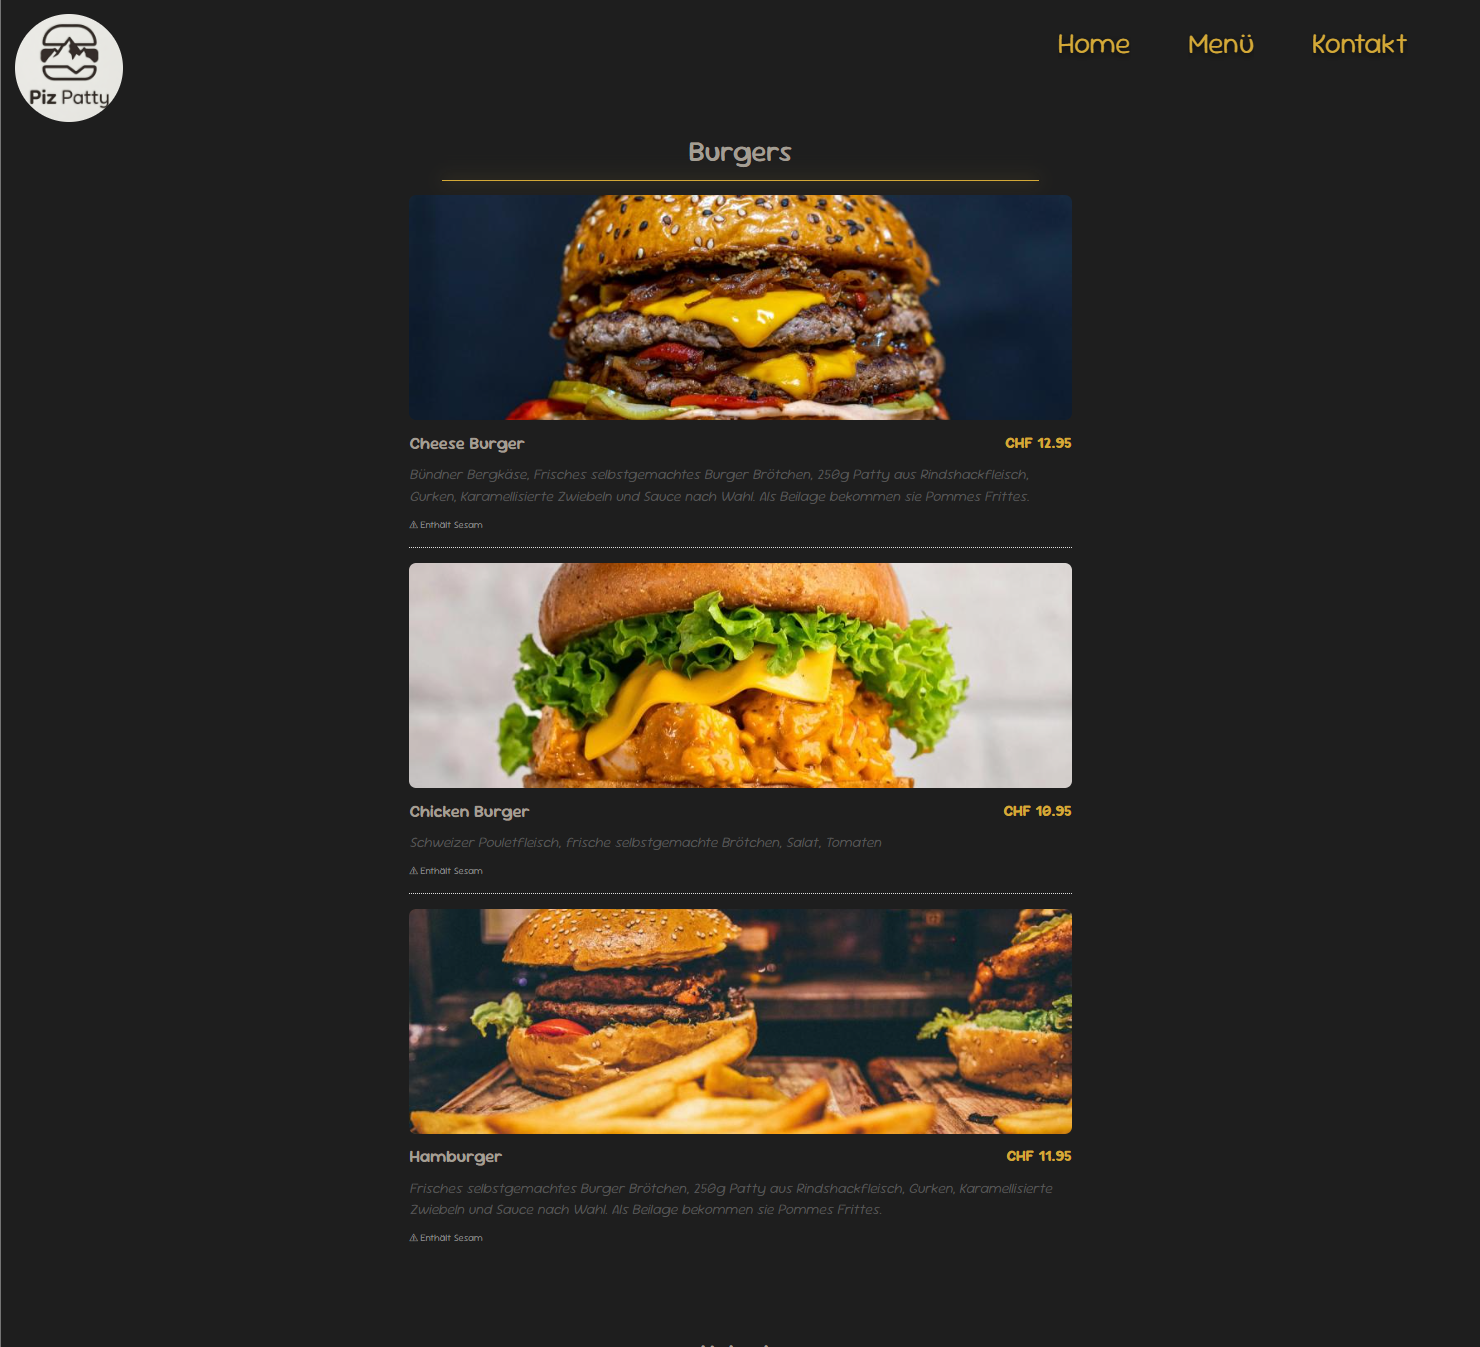
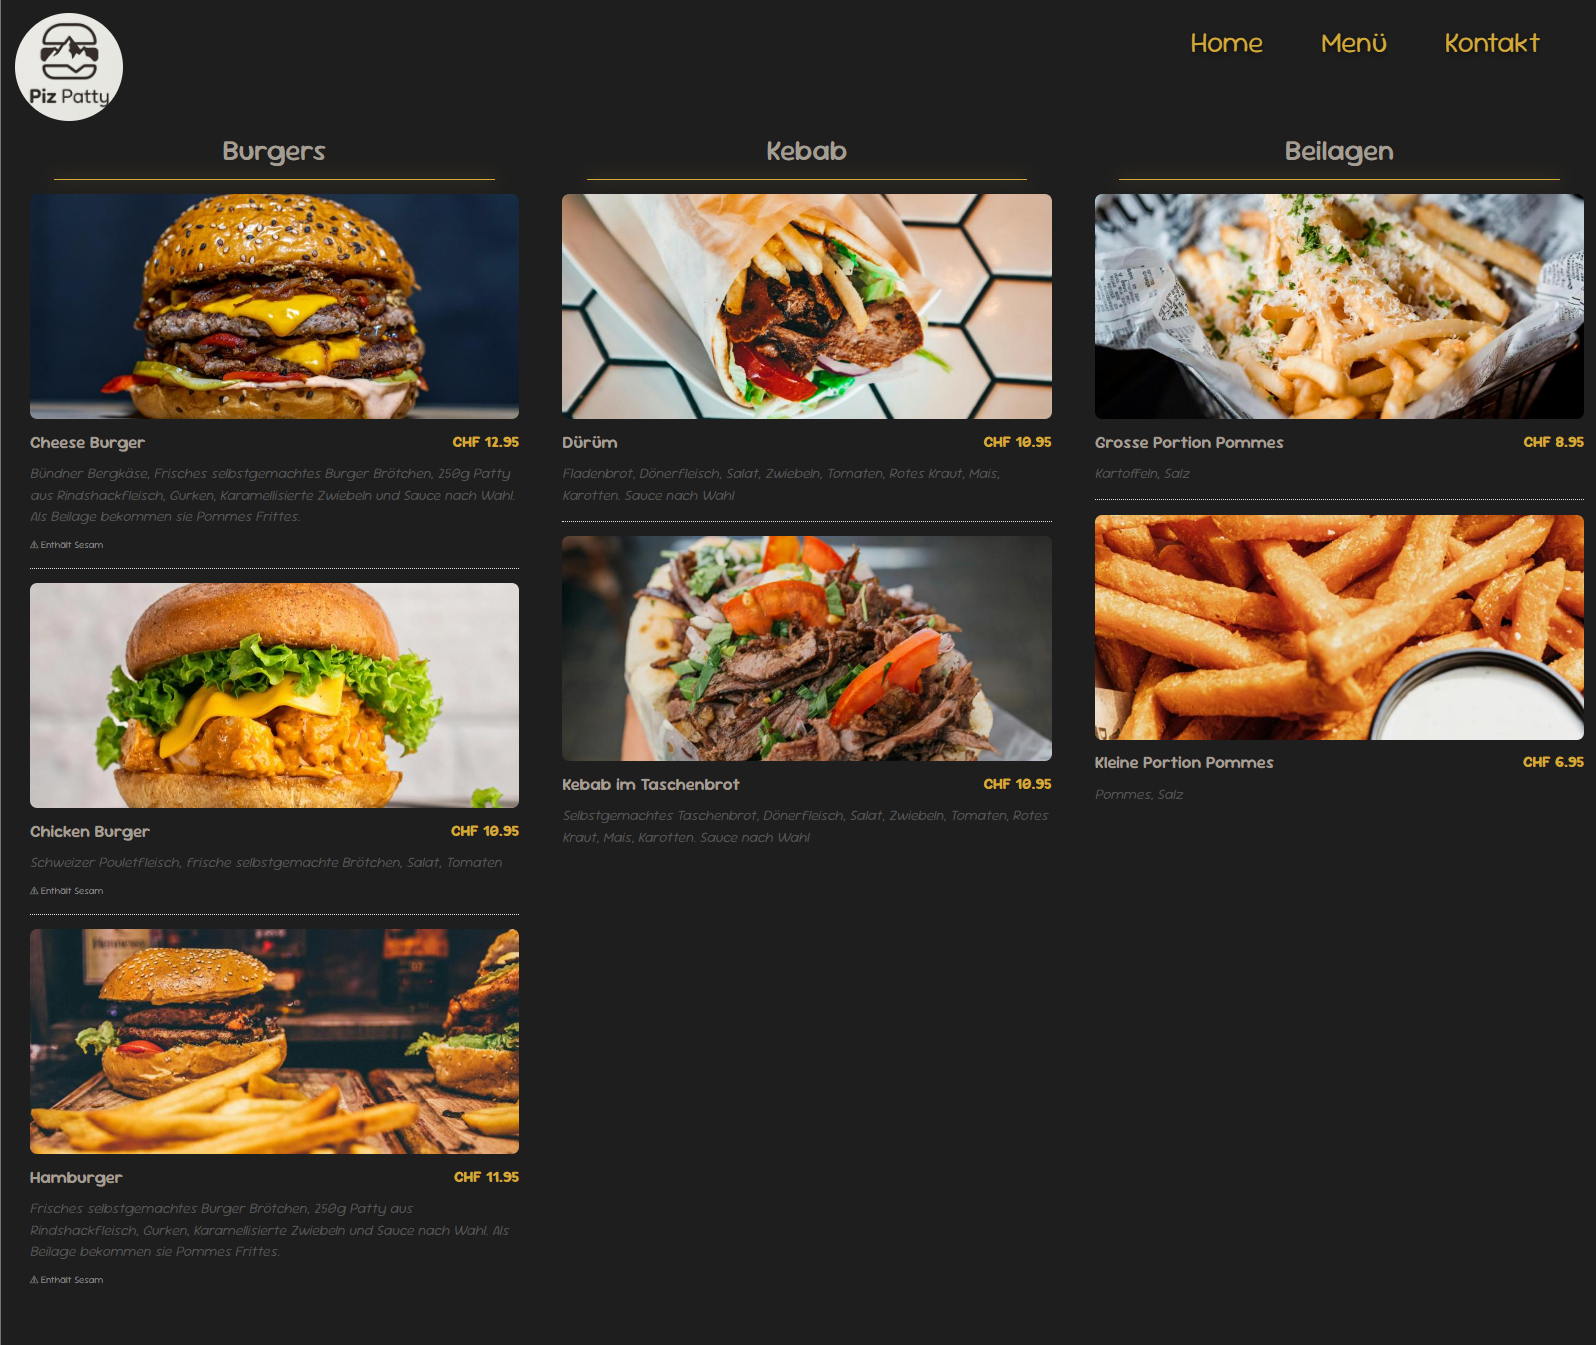
changed the Project description to accordion and fixed the Layout of the whole Website

diff --git a/src/data/projects.js b/src/data/projects.js
@@ -3,6 +3,8 @@ import pizMobile from "../assets/piz-patty/piz-mobile-1.png";
 import pizFeatures from "../assets/piz-patty/piz-desktop-2.png";
 import pizMenu from "../assets/piz-patty/piz-desktop-menu.png";
 
+import PizPattymockup from "../assets/piz-patty-mockup.webp"
+
 export const projects = [
   {
     slug: "piz-patty",
@@ -12,6 +14,7 @@ export const projects = [
       "Eine Restaurant-Website mit Speisekarte, Reservierungsmöglichkeit und Google Maps Einbindung. Die Inhalte können vom Betreiber selbst gepflegt werden, ohne technische Vorkenntnisse.",
     tags: ["Astro", "Sanity CMS", "Responsive", "SEO"],
     liveUrl: "https://piz-patty.vercel.app",
+    mockup: PizPattymockup, 
 
     desktop: {
       images: [
@@ -19,12 +22,25 @@ export const projects = [
           src: pizDesktop,
           alt: "Startseite Desktop",
           description: [
-            "Grosses Hero-Bild mit zwei CTA-Buttons.",
-            "Die Buttons lenken Besucher direkt zum Menü und zum Kontaktformular.",
-            "Darunter befinden sich die Öffnungszeiten.",
+            {
+              title: "Navigationsleiste",
+              text: "Die Navigationsleiste ist von der ganzen Website aus erreichbar und sorgt für eine einfache Navigation zu allen Sektionen der Website.",
+            },
+            {
+              title: "Hero Bild",
+              text: "Grosses Hero-Bild mit zwei CTA-Buttons.",
+            },
+            {
+              title: "CTA Buttons",
+              text: 'CTA steht für "Call to action", also Aufruf zu einer Aktion. Die Buttons lenken Besucher direkt zum Menü und zum Kontaktformular.',
+            },
+            {
+              title: "Öffunungszeiten",
+              text: "Unter dem Hero befinden sich die Öffnungszeiten.",
+            },
           ],
           highlights: [
-            { x: 76, y: -5, label: "Navigationsleiste" },
+            { x: 71, y: -5, label: "Navigationsleiste" },
             { x: 45, y: 41.5, label: "CTA Buttons" },
             { x: 50, y: 10, label: "Hero Bild" },
             { x: 10, y: 53, label: "Öffnungszeiten" },
@@ -34,8 +50,14 @@ export const projects = [
           src: pizFeatures,
           alt: "Features Desktop",
           description: [
-            "Unterhalb der Öffnungszeiten finden Ihre Kunden die Karte vom Restaurant. Wenn man da drauf klickt, kommt man direkt zu Google Maps und kann sogar eine Navigation starten.",
-            "Dank den Just Eat und Uber Eats Buttons, welche mit ihrer Restaurantseite verlinkt werden, können Kunden mit wenigen klicks eine Bestellung aufgeben.",
+            {
+              title: "Google Maps",
+              text: "Unterhalb der Öffnungszeiten finden Ihre Kunden die Karte vom Restaurant. Wenn man da drauf klickt, kommt man direkt zu Google Maps und kann sogar eine Navigation starten.",
+            },
+            {
+              title: "Just Eat/ Uber Eats",
+              text: "Dank den Just Eat und Uber Eats Buttons, welche mit ihrer Restaurantseite verlinkt werden, können Kunden in wenigen klicks eine Bestellung aufgeben.",
+            },
           ],
           highlights: [
             { x: 70, y: 28, label: "Google Maps" },
@@ -46,12 +68,19 @@ export const projects = [
           src: pizMenu,
           alt: "Speisekarte Desktop",
           description: [
-            "Grosses Hero-Bild mit zwei CTA-Buttons.",
-            "Die Buttons lenken Besucher direkt zum Menü und zum Kontaktformular.",
+            {
+              title: "Menüseite",
+              text: "Menüseite mit allen relevanten Informationen zu Ihren leckeren Speisen.",
+            },
+            {
+              title: "CTA Buttons",
+              text: "Die Buttons lenken Besucher direkt zum Menü und zum Kontaktformular.",
+            },
           ],
           highlights: [
-            { x: 30, y: 85, label: "CTA Buttons" },
-            { x: 15, y: 50, label: "Hero Bild" },
+            { x: 28, y: 25, label: "Preis" },
+            { x: 3, y: 59, label: "Allergie Infos" },
+            { x: 9, y: 82, label: "Zutaten" },
           ],
         },
       ],
@@ -63,10 +92,27 @@ export const projects = [
           src: pizMobile,
           alt: "Startseite Mobile",
           description: [
-            "Die Startseite ist so aufgebaut, dass Ihre Kunden alle wichtigen Informationen möglichst schnell finden.",
-            "In der Mobile Ansicht verschwindet die Navigationsleiste in einem sogenannten Hamburger Menü.",
-            "Die Buttons im Hero lenken Besucher direkt zum Menü und zum Kontaktformular.",
-            "Auf der Startseite kann man auch direkt die Öffnungszeiten einsehen.",
+            {
+              title: "Startseite",
+              text: "Die Startseite ist so aufgebaut, dass Ihre Kunden alle wichtigen Informationen möglichst schnell finden.",
+            },
+            {
+              title: "Hamburger Menü",
+              text: "In der Mobile Ansicht verschwindet die Navigationsleiste in einem sogenannten Hamburger Menü.",
+            },
+            {
+              title: "CTA Buttons",
+              text: "Die Buttons im Hero lenken Besucher direkt zum Menü und zum Kontaktformular.",
+            },
+            {
+              title: "Öffnungszeiten",
+              text: "Auf der Startseite kann man auch direkt die Öffnungszeiten einsehen.",
+            },
+          ],
+          highlights: [
+            { x: 59, y: -1, label: "Hamburger Menü", right: true },
+            { x: 35, y: 45, label: "CTA Buttons" },
+            { x: 35, y: 61, label: "Öffnungszeiten" },
           ],
         },
       ],

diff --git a/src/components/project-details/ProjectDetails.jsx b/src/components/project-details/ProjectDetails.jsx
@@ -1,8 +1,9 @@
 import { useState } from "react";
 import Switch from "./MobileSwitch";
+import Accordion from "./Accordion.jsx"
 
 export default function ProjectDetails({ project, desktop, mobile }) {
-  const [isMobile, setIsMobile] = useState(true);
+  const [isMobile, setIsMobile] = useState(false);
 
   function handleToggle() {
     setIsMobile((prev) => !prev);
@@ -25,14 +26,14 @@ export default function ProjectDetails({ project, desktop, mobile }) {
       </div>
       <div className="flex flex-col gap-10">
         {(isMobile ? mobile : desktop).images.map((img) => (
-          <div className="flex flex-col md:flex-row items-start gap-10">
+          <div key={img.alt} className="flex flex-col md:flex-row items-start gap-10">
             <div className={`relative w-[95%] ${!isMobile ? "md:max-w-190" : "md:max-w-110"} md:w-[50%] shrink-0`}>
-              <img className="rounded-xl w-full" src={img.src.src} />
+              <img className="rounded-xl w-full" src={img.src.src} alt={img.alt} />
               {img.highlights &&
                 img.highlights.map((h, i) => (
                   <div
                     key={i}
-                    className="absolute flex items-center gap-1"
+                    className={`absolute flex items-center gap-1 ${h.right ? "flex-row-reverse" : ""}`}
                     style={{ left: `${h.x}%`, top: `${h.y}%` }}
                   >
                     <span className="text-gw-accent text-2xl animate-pulse">
@@ -44,16 +45,7 @@ export default function ProjectDetails({ project, desktop, mobile }) {
                   </div>
                 ))}
             </div>
-            <ul className="flex flex-col justify-center gap-7 p-5 border rounded-2xl border-dotted">
-              {img.description.map((text, i) => (
-                <li
-                  className="text-[clamp(0.9rem,2vw,1.2rem)] text-gw-text"
-                  key={i}
-                >
-                  {text}
-                </li>
-              ))}
-            </ul>
+            <Accordion items={img.description} />
             <hr className="md:hidden" />
           </div>
         ))}

diff --git a/src/components/project-details/MobileSwitch.jsx b/src/components/project-details/MobileSwitch.jsx
@@ -2,14 +2,14 @@ import "./Switch.css";
 
 function Switch({ onSwitch, isMobile }) {
   return (
-    <div className="flex gap-2 items-center text-sm border rounded-2xl p-3 bg-gw-bg-card">
+    <div className="flex gap-2 items-center text-sm border rounded-xl p-3 bg-gw-bg-card">
       <svg
         xmlns="http://www.w3.org/2000/svg"
         width="35px"
         height="35px"
         viewBox="0 0 64 64"
-        stroke-width="3"
-        stroke="#38bdf8"
+        strokeWidth="3"
+        stroke={!isMobile ? "#38bdf8" : "#38bdf840"}
         fill="#0f1419"
       >
         <rect x="8.6" y="10.11" width="46.81" height="36.51" rx="2" />
@@ -37,10 +37,9 @@ function Switch({ onSwitch, isMobile }) {
       >
         <path
           d="M12 18H12.01M9.2 21H14.8C15.9201 21 16.4802 21 16.908 20.782C17.2843 20.5903 17.5903 20.2843 17.782 19.908C18 19.4802 18 18.9201 18 17.8V6.2C18 5.0799 18 4.51984 17.782 4.09202C17.5903 3.71569 17.2843 3.40973 16.908 3.21799C16.4802 3 15.9201 3 14.8 3H9.2C8.0799 3 7.51984 3 7.09202 3.21799C6.71569 3.40973 6.40973 3.71569 6.21799 4.09202C6 4.51984 6 5.07989 6 6.2V17.8C6 18.9201 6 19.4802 6.21799 19.908C6.40973 20.2843 6.71569 20.5903 7.09202 20.782C7.51984 21 8.07989 21 9.2 21Z"
-          stroke="#38bdf8"
-          stroke-width="1.1"
-          stroke-linecap="round"
-          stroke-linejoin="round"
+          stroke={isMobile ? "#38bdf8" : "#38bdf840"}
+          strokeWidth="1.1"
+          strokeLinecap="round"
         />
       </svg>
     </div>

diff --git a/src/components/project-details/Accordion.jsx b/src/components/project-details/Accordion.jsx
@@ -1,0 +1,33 @@
+import { useState } from "react";
+
+export default function Accordion({ items }) {
+  const [openIndex, setOpenIndex] = useState(null);
+
+  return (
+    <div className="flex flex-col gap-2 w-full">
+      {items.map((item, i) => (
+        <div
+          key={i}
+          className="border-2 border-gw-accent-muted rounded-lg overflow-hidden"
+        >
+          <button
+            className="w-full text-left px-4 py-2 flex justify-between items-center bg-gw-bg-card text-gw-text hover:bg-gw-bg-elevated transition-colors"
+            onClick={() => setOpenIndex(openIndex === i ? null : i)}
+          >
+            <span className="text-2xl text-gw-accent">{item.title}</span>
+            <span
+              className={`text-xl text-gw-accent transition-transform ${openIndex === i ? "rotate-180" : ""}`}
+            >
+              ▼
+            </span>
+          </button>
+          {openIndex === i && (
+            <div className="text-lg  shadow-2xl p-4 text-gw-text-mute border-t-2 bg-gw-bg-card border-dotted border-gw-accent-muted">
+              {item.text}
+            </div>
+          )}
+        </div>
+      ))}
+    </div>
+  );
+}
